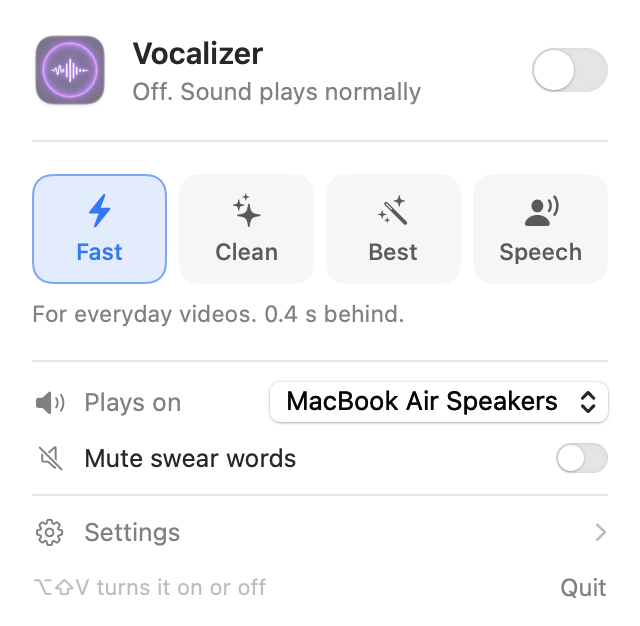
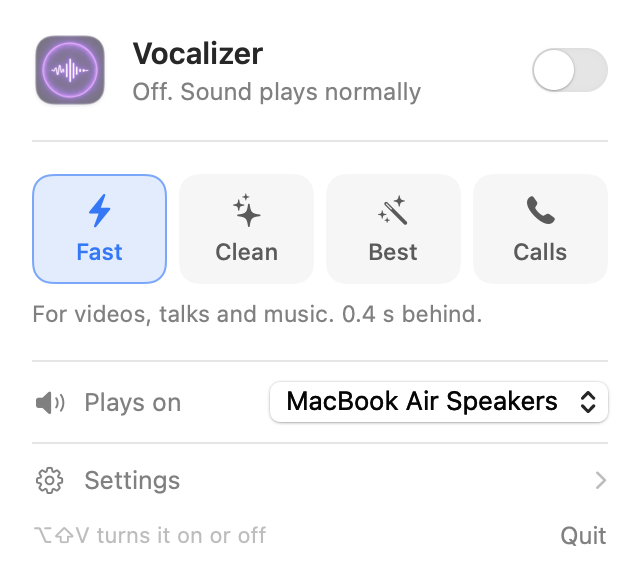
Mute swear words moves into Settings; fresh menu and Settings screenshots on the site

diff --git a/Sources/VocalizerMac/VocalizerApp.swift b/Sources/VocalizerMac/VocalizerApp.swift
@@ -36,9 +36,6 @@ struct MenuView: View {
             }
             Divider().padding(.horizontal, 16)
             outputRow.padding(.horizontal, 16).padding(.vertical, 10)
-            if model.swearFilterSupported {
-                swearRow.padding(.horizontal, 16).padding(.bottom, 10)
-            }
             Divider().padding(.horizontal, 16)
             settings.padding(.horizontal, 16).padding(.vertical, 10)
             footer.padding(.horizontal, 16).padding(.bottom, 12).padding(.top, 2)
@@ -198,32 +195,29 @@ struct MenuView: View {
 
     // MARK: swear-word filter
 
-    private var swearRow: some View {
+    /// In Settings: the switch, what it's doing right now, and how well the current mode can catch words.
+    private var swearSetting: some View {
         let s = model.stats
-        return VStack(alignment: .leading, spacing: 3) {
-            HStack(spacing: 8) {
-                Image(systemName: model.muteSwearWords ? "speaker.slash.fill" : "speaker.slash")
-                    .foregroundStyle(model.muteSwearWords ? Color.accentColor : .secondary).frame(width: 18)
+        return HStack(alignment: .top) {
+            VStack(alignment: .leading, spacing: 2) {
                 Text(L("Mute swear words")).font(.system(size: 12.5))
-                Spacer()
-                if model.muteSwearWords && on {
-                    Group {
-                        if s.profanityPreparing {
-                            HStack(spacing: 4) { ProgressView().controlSize(.mini); Text(L("Getting ready")) }
-                        } else if s.profanityError != nil {
-                            Text(L("Unavailable"))
-                        } else if s.profanityFilter {
-                            Text(s.wordsCaught == 0 ? L("Listening") : L("%@ muted", "\(s.wordsCaught)"))
-                        }
+                Text(model.muteSwearWords ? swearHint : L("Silences swear words as they play. Recognized on this Mac."))
+                    .font(.system(size: 11)).foregroundStyle(.secondary).fixedSize(horizontal: false, vertical: true)
+            }
+            Spacer()
+            if model.muteSwearWords && on {
+                Group {
+                    if s.profanityPreparing {
+                        HStack(spacing: 4) { ProgressView().controlSize(.mini); Text(L("Getting ready")) }
+                    } else if s.profanityError != nil {
+                        Text(L("Unavailable"))
+                    } else if s.profanityFilter {
+                        Text(s.wordsCaught == 0 ? L("Listening") : L("%@ muted", "\(s.wordsCaught)"))
                     }
-                    .font(.system(size: 11)).foregroundStyle(.secondary)
                 }
-                Toggle("", isOn: $model.muteSwearWords).toggleStyle(.switch).controlSize(.mini).labelsHidden()
+                .font(.system(size: 11)).foregroundStyle(.secondary).fixedSize()
             }
-            if model.muteSwearWords {
-                Text(swearHint).font(.system(size: 11)).foregroundStyle(.secondary)
-                    .fixedSize(horizontal: false, vertical: true).padding(.leading, 26)
-            }
+            Toggle("", isOn: $model.muteSwearWords).toggleStyle(.switch).controlSize(.mini).labelsHidden()
         }
     }
 
@@ -261,6 +255,9 @@ struct MenuView: View {
                 VStack(alignment: .leading, spacing: 12) {
                     settingToggle(L("Fast only"), L("Hide the other modes and always use Fast."), $model.fastOnly)
                     settingToggle(L("Keep video in sync"), L("Videos wait for the voice, so lips always match."), $model.syncVideo)
+                    if model.swearFilterSupported {
+                        swearSetting
+                    }
                     settingToggle(L("Open at login"), L("Start Vocalizer when you log in."), $model.openAtLogin)
                     settingToggle(L("Install updates automatically"), L("Off: Vocalizer tells you about new versions and asks first."),
                                   Binding(get: { model.updater.automaticallyInstalls }, set: { model.updater.automaticallyInstalls = $0 }))

diff --git a/website/ar/index.html b/website/ar/index.html
@@ -111,7 +111,7 @@
           <p class="sub">شغّله وتعمل كل التطبيقات بلا موسيقى: يوتيوب في أي متصفح، والبودكاست، والمحاضرات، والأفلام. يصل الكلام والغناء والحوار بوضوح.</p>
           <p class="sub">أوقفه ويعود صوت الـ Mac كما كان تمامًا. اضغط <kbd>⌥</kbd> <kbd>⇧</kbd> <kbd>V</kbd> لتشغيله أو إيقافه من أي مكان.</p>
         </div>
-        <div class="shot"><img src="/img/menu.png" alt="قائمة Vocalizer: مفتاح التشغيل، والأوضاع الأربعة، ومخرج الصوت، وكتم الألفاظ البذيئة" width="320" height="314" loading="lazy" decoding="async"></div>
+        <div class="shot"><img src="/img/menu.png" alt="قائمة Vocalizer: مفتاح التشغيل، والأوضاع الأربعة، ومخرج الصوت، والإعدادات" width="320" height="287" loading="lazy" decoding="async"></div>
       </div>
 
       <div class="features">
@@ -129,7 +129,7 @@
         </div>
         <div class="feature">
           <span class="glyph"><svg viewBox="0 0 24 24" fill="none" stroke="currentColor" stroke-width="1.8" stroke-linecap="round" stroke-linejoin="round" aria-hidden="true"><path d="M11 5 6 9H2v6h4l5 4V5Z"/><path d="m22 9-6 6M16 9l6 6"/></svg></span>
-          <div><h3>كتم الألفاظ البذيئة</h3><p>مفتاح اختياري يكتم الألفاظ البذيئة أثناء تشغيلها، ويجري التعرّف عليها على جهازك، دون تأخير إضافي. يتطلب macOS 26 أو أحدث.</p></div>
+          <div><h3>كتم الألفاظ البذيئة</h3><p>مفتاح اختياري في الإعدادات يكتم الألفاظ البذيئة أثناء تشغيلها، ويجري التعرّف عليها على جهازك، دون تأخير إضافي. يتطلب macOS 26 أو أحدث.</p></div>
         </div>
         <div class="feature">
           <span class="glyph"><svg viewBox="0 0 24 24" fill="none" stroke="currentColor" stroke-width="1.8" stroke-linecap="round" stroke-linejoin="round" aria-hidden="true"><path d="M3 18v-6a9 9 0 0 1 18 0v6"/><path d="M21 19a2 2 0 0 1-2 2h-1v-6h3ZM3 19a2 2 0 0 0 2 2h1v-6H3Z"/></svg></span>

diff --git a/website/index.html b/website/index.html
@@ -111,7 +111,7 @@
           <p class="sub">Turn it on and every app plays without its music: YouTube in any browser, Apple Music, Spotify, podcasts, lectures, films. Speech, singing and dialogue come through clearly.</p>
           <p class="sub">Turn it off and your Mac sounds exactly as before. Press <kbd>⌥</kbd> <kbd>⇧</kbd> <kbd>V</kbd> to switch it from anywhere.</p>
         </div>
-        <div class="shot"><img src="/img/menu.png" alt="The Vocalizer menu: the on/off switch, the four modes, the output and Mute swear words" width="320" height="314" loading="lazy" decoding="async"></div>
+        <div class="shot"><img src="/img/menu.png" alt="The Vocalizer menu: the on/off switch, the four modes, the output and Settings" width="320" height="287" loading="lazy" decoding="async"></div>
       </div>
 
       <div class="features">
@@ -129,7 +129,7 @@
         </div>
         <div class="feature">
           <span class="glyph"><svg viewBox="0 0 24 24" fill="none" stroke="currentColor" stroke-width="1.8" stroke-linecap="round" stroke-linejoin="round" aria-hidden="true"><path d="M11 5 6 9H2v6h4l5 4V5Z"/><path d="m22 9-6 6M16 9l6 6"/></svg></span>
-          <div><h3>Mute swear words</h3><p>An optional switch silences swear words as they play, recognized on your Mac, with no extra delay. Needs macOS 26 or later.</p></div>
+          <div><h3>Mute swear words</h3><p>An optional switch in Settings silences swear words as they play, recognized on your Mac, with no extra delay. Needs macOS 26 or later.</p></div>
         </div>
         <div class="feature">
           <span class="glyph"><svg viewBox="0 0 24 24" fill="none" stroke="currentColor" stroke-width="1.8" stroke-linecap="round" stroke-linejoin="round" aria-hidden="true"><path d="M3 18v-6a9 9 0 0 1 18 0v6"/><path d="M21 19a2 2 0 0 1-2 2h-1v-6h3ZM3 19a2 2 0 0 0 2 2h1v-6H3Z"/></svg></span>

diff --git a/website/ar/muslim.html b/website/ar/muslim.html
@@ -128,10 +128,10 @@
       <div class="split">
         <div>
           <h2>وكتم الألفاظ البذيئة أيضًا.</h2>
-          <p class="sub">فعّل <b>كتم الألفاظ البذيئة</b> فيكتمها Vocalizer أثناء تشغيلها، بالتعرّف على الكلام على جهازك نفسه، دون تأخير إضافي. مناسب للمشاهدة العائلية، ولصون سمعك.</p>
+          <p class="sub">فعّل <b>كتم الألفاظ البذيئة</b> من الإعدادات فيكتمها Vocalizer أثناء تشغيلها، بالتعرّف على الكلام على جهازك نفسه، دون تأخير إضافي. مناسب للمشاهدة العائلية، ولصون سمعك.</p>
           <p class="sub">يعمل أفضل في وضعي «الأفضل» و«نقي»، ويتطلب macOS 26 أو أحدث. وككل تعرّف على الكلام، قد تفوته كلمة أحيانًا.</p>
         </div>
-        <div class="shot"><img src="/img/menu.png" alt="قائمة Vocalizer مع مفتاح كتم الألفاظ البذيئة" width="320" height="314" loading="lazy" decoding="async"></div>
+        <div class="shot"><img src="/img/settings.png" alt="إعدادات Vocalizer مع مفتاح كتم الألفاظ البذيئة" width="320" height="345" loading="lazy" decoding="async"></div>
       </div>
     </div>
   </section>

diff --git a/website/muslim.html b/website/muslim.html
@@ -129,10 +129,10 @@
       <div class="split">
         <div>
           <h2>Mute swear words, too.</h2>
-          <p class="sub">Turn on <b>Mute swear words</b> and Vocalizer silences them as they play, recognized by your Mac's own speech recognition, with no extra delay. Good for family viewing, and for keeping your ears clean.</p>
+          <p class="sub">Turn on <b>Mute swear words</b> in Settings and Vocalizer silences them as they play, recognized by your Mac's own speech recognition, with no extra delay. Good for family viewing, and for keeping your ears clean.</p>
           <p class="sub">Works best in Best and Clean modes, and needs macOS 26 or later. Like any speech recognition, it can occasionally miss a word.</p>
         </div>
-        <div class="shot"><img src="/img/menu.png" alt="The Vocalizer menu with the Mute swear words switch" width="320" height="314" loading="lazy" decoding="async"></div>
+        <div class="shot"><img src="/img/settings.png" alt="Vocalizer Settings with the Mute swear words switch" width="320" height="345" loading="lazy" decoding="async"></div>
       </div>
     </div>
   </section>

diff --git a/tools/ar_site.py b/tools/ar_site.py
@@ -28,14 +28,14 @@ index={
  "Turn it on and every app plays without its music: YouTube in any browser, Apple Music, Spotify, podcasts, lectures, films. Speech, singing and dialogue come through clearly.":"شغّله وتعمل كل التطبيقات بلا موسيقى: يوتيوب في أي متصفح، والبودكاست، والمحاضرات، والأفلام. يصل الكلام والغناء والحوار بوضوح.",
  "Turn it off and your Mac sounds exactly as before. Press":"أوقفه ويعود صوت الـ Mac كما كان تمامًا. اضغط",
  "to switch it from anywhere.":"لتشغيله أو إيقافه من أي مكان.",
- "The Vocalizer menu: the on/off switch, the four modes, the output and Mute swear words":"قائمة Vocalizer: مفتاح التشغيل، والأوضاع الأربعة، ومخرج الصوت، وكتم الألفاظ البذيئة",
+ "The Vocalizer menu: the on/off switch, the four modes, the output and Settings":"قائمة Vocalizer: مفتاح التشغيل، والأوضاع الأربعة، ومخرج الصوت، والإعدادات",
  "Works with every app":"يعمل مع كل التطبيقات",
  "Vocalizer works on your Mac's sound itself, so there's nothing to install in each app or browser.":"يعمل Vocalizer على صوت الـ Mac نفسه، فلا حاجة لتثبيت أي شيء في كل تطبيق أو متصفح.",
  "Lips stay in sync":"تبقى الشفاه متزامنة",
  "Video players hold the picture back by exactly the processing delay, so faces and voices line up.":"تؤخّر مشغّلات الفيديو الصورة بمقدار تأخير المعالجة تمامًا، فتتطابق الوجوه والأصوات.",
  "Private by design":"خاص بطبيعته",
  "Audio is processed on your Mac's Neural Engine and GPU. It is never recorded, stored or sent anywhere.":"يُعالَج الصوت بمحرك Neural Engine ومعالج الرسوميات في جهازك. لا يُسجَّل ولا يُخزَّن ولا يُرسَل إلى أي مكان.",
- "An optional switch silences swear words as they play, recognized on your Mac, with no extra delay. Needs macOS 26 or later.":"مفتاح اختياري يكتم الألفاظ البذيئة أثناء تشغيلها، ويجري التعرّف عليها على جهازك، دون تأخير إضافي. يتطلب macOS 26 أو أحدث.",
+ "An optional switch in Settings silences swear words as they play, recognized on your Mac, with no extra delay. Needs macOS 26 or later.":"مفتاح اختياري في الإعدادات يكتم الألفاظ البذيئة أثناء تشغيلها، ويجري التعرّف عليها على جهازك، دون تأخير إضافي. يتطلب macOS 26 أو أحدث.",
  "Speakers and headphones":"السماعات وسماعات الرأس",
  "Plug in headphones or connect AirPods and the sound follows. Your volume keys keep working.":"صِل سماعات الرأس أو AirPods وينتقل الصوت إليها. تبقى أزرار الصوت تعمل.",
  "Signed and notarized":"موقّع ومعتمد من Apple",
@@ -129,9 +129,9 @@ muslim={
  "Updates ask first":"التحديثات تستأذن أولًا",
  "New versions only install when you say so, and only after their signature is verified. Its one connection is checking for updates.":"لا تُثبَّت الإصدارات الجديدة إلا بموافقتك، وبعد التحقق من توقيعها. واتصاله الوحيد بالإنترنت هو البحث عن التحديثات.",
  "Mute swear words, too.":"وكتم الألفاظ البذيئة أيضًا.","Turn on":"فعّل",
- "and Vocalizer silences them as they play, recognized by your Mac's own speech recognition, with no extra delay. Good for family viewing, and for keeping your ears clean.":"فيكتمها Vocalizer أثناء تشغيلها، بالتعرّف على الكلام على جهازك نفسه، دون تأخير إضافي. مناسب للمشاهدة العائلية، ولصون سمعك.",
+ "in Settings and Vocalizer silences them as they play, recognized by your Mac's own speech recognition, with no extra delay. Good for family viewing, and for keeping your ears clean.":"من الإعدادات فيكتمها Vocalizer أثناء تشغيلها، بالتعرّف على الكلام على جهازك نفسه، دون تأخير إضافي. مناسب للمشاهدة العائلية، ولصون سمعك.",
  "Works best in Best and Clean modes, and needs macOS 26 or later. Like any speech recognition, it can occasionally miss a word.":"يعمل أفضل في وضعي «الأفضل» و«نقي»، ويتطلب macOS 26 أو أحدث. وككل تعرّف على الكلام، قد تفوته كلمة أحيانًا.",
- "The Vocalizer menu with the Mute swear words switch":"قائمة Vocalizer مع مفتاح كتم الألفاظ البذيئة",
+ "Vocalizer Settings with the Mute swear words switch":"إعدادات Vocalizer مع مفتاح كتم الألفاظ البذيئة",
  "Download Vocalizer and drag it to your Applications folder. It's free, with nothing to buy inside.":"نزّل Vocalizer واسحبه إلى مجلد التطبيقات. مجاني، ولا شيء للشراء بداخله.",
  "It lives in the menu bar. For video, click":"يظهر في شريط القوائم. للفيديو انقر",
  "in its menu once, so lips stay in sync with the voice.":"في قائمته مرة واحدة، لتبقى الشفاه متزامنة مع الصوت.",
